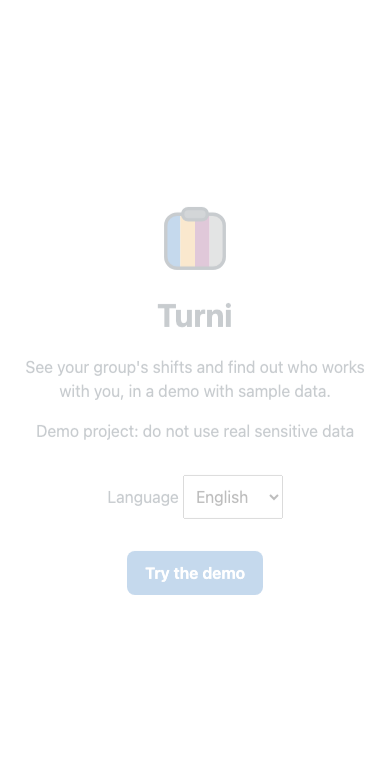
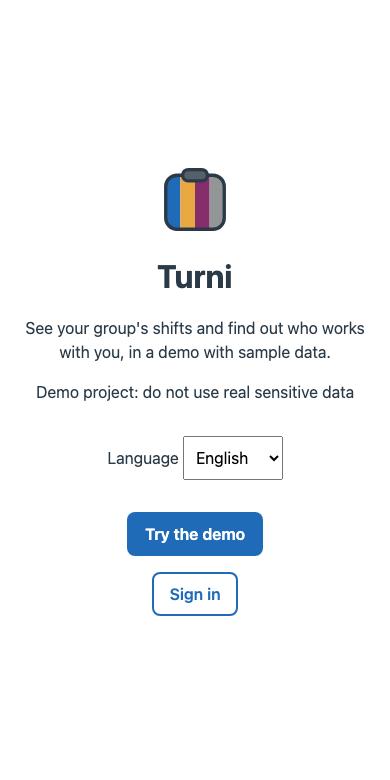
Retakes the landing screenshot with the Sign in button

Changed region(s): [[0.0615, 0.2154, 0.9231, 0.8], [0.2154, 0.5538, 0.2462, 0.5846], [0.1231, 0.5538, 0.1538, 0.5846]]

diff --git a/README.md b/README.md
@@ -5,9 +5,11 @@ Live demo: https://mariozefiro.github.io/work-shift-tracker/
 A shared shift tracker: see your own shift today, who works with you, your next shifts and how many people work each day of the month. It runs in two ways: a demo on in-memory sample data that needs no setup, and a signed-in mode on Supabase (accounts, groups, invitations and shifts assigned by the group manager).
 
 <p>
-  <img src="docs/screenshots/landing.png" alt="Landing page with the Try the demo button" width="260">
+  <img src="docs/screenshots/landing.png" alt="Landing page with the Try the demo and Sign in buttons" width="260">
   <img src="docs/screenshots/home.png" alt="Home page: today's shift, upcoming shifts and the month grid" width="260">
 </p>
+
+The screenshots show the demo. Signed-in mode uses real accounts, so it is not pictured.
 
 ## Features
 
